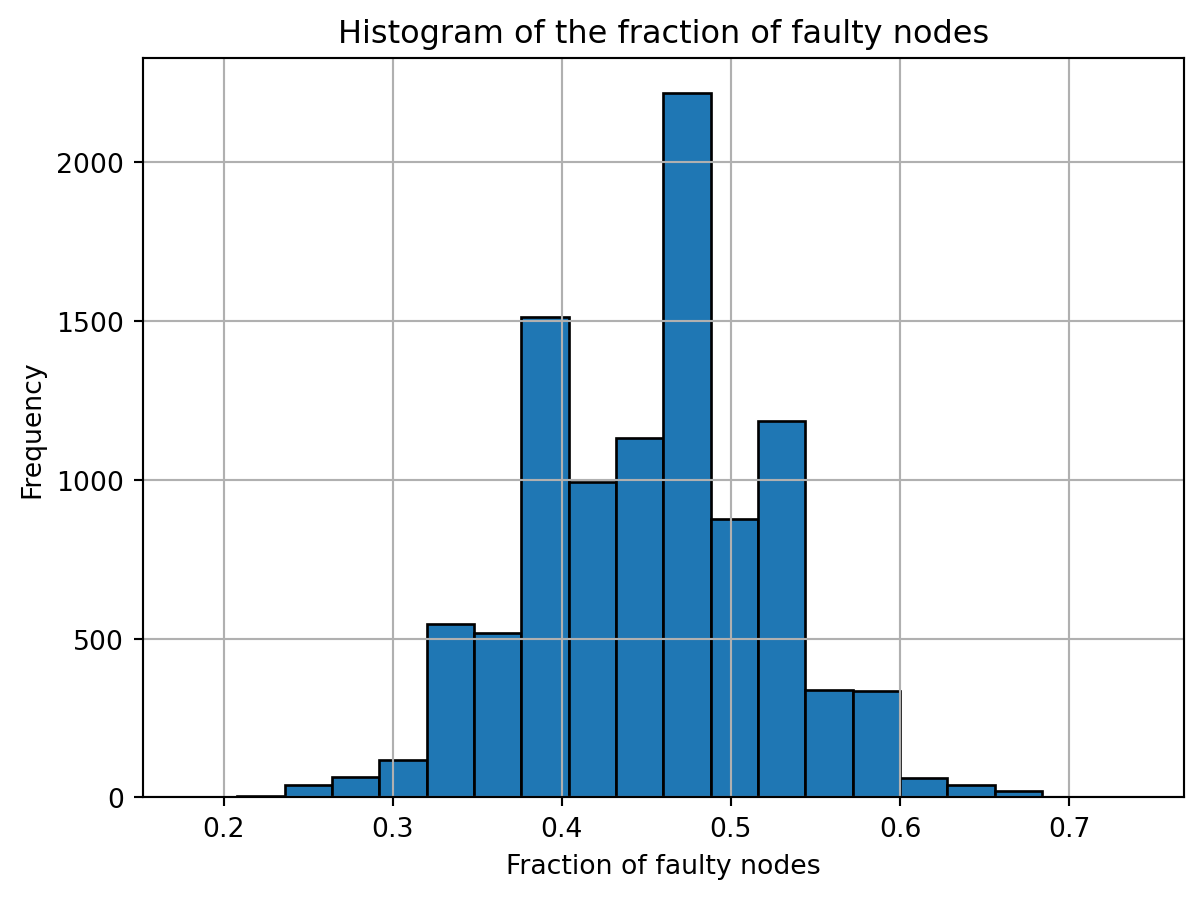
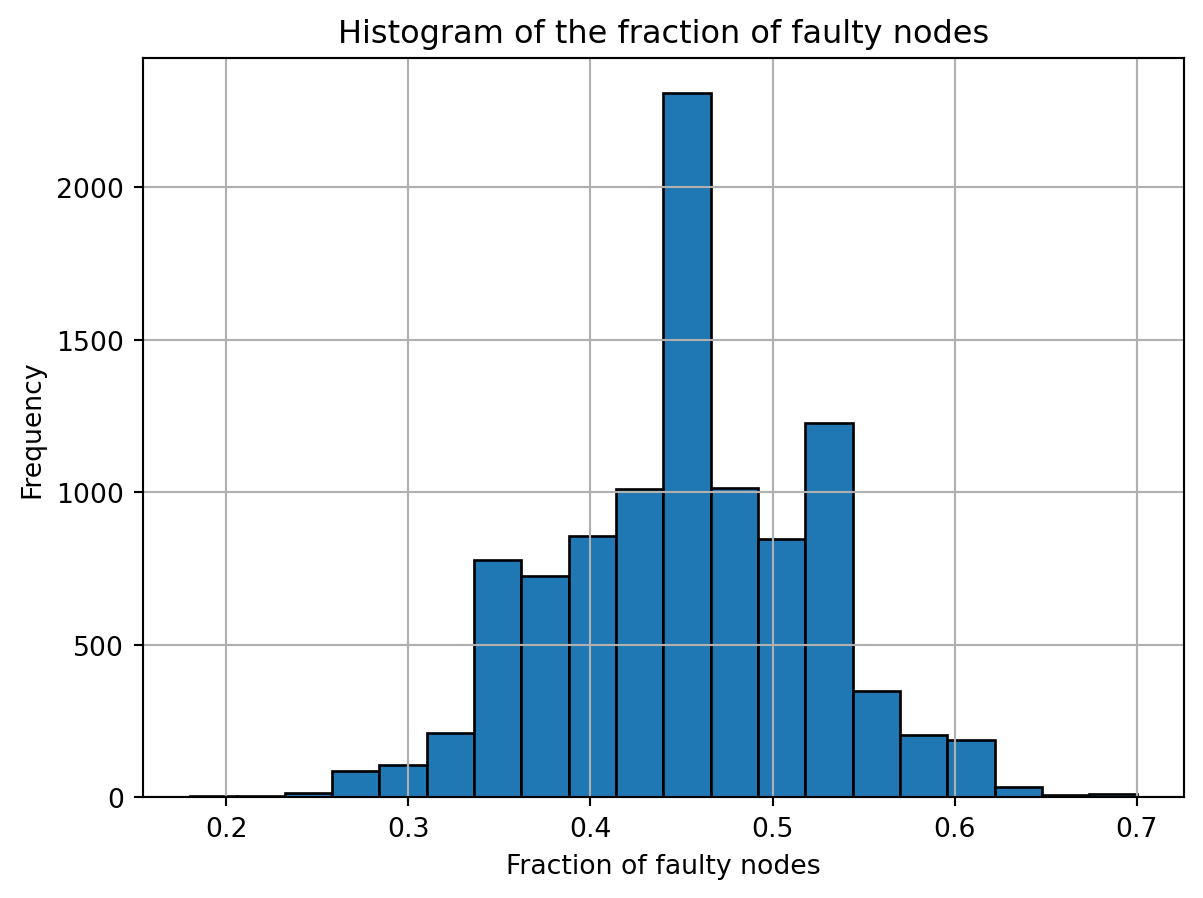
Add files via upload

diff --git a/05-LongestChain.html b/05-LongestChain.html
@@ -630,7 +630,7 @@ Case ii) is essentially a generalization of case i): suppose that the integer $K
 </ul>
 <p>Can we turn this “on expectation” statement into a “with high probability” statement? To gain some intuition, you are invited to experiment with different values of <span class="math inline">\alpha</span> and <span class="math inline">K</span>, using the Python code snippets below.</p>
 <p>To create one such leader sequence, use the following code:</p>
-<div id="3548698b" class="cell" data-execution_count="1">
+<div id="887ec18a" class="cell" data-execution_count="1">
 <details class="code-fold">
 <summary>Code</summary>
 <div class="sourceCode cell-code" id="cb2"><pre class="sourceCode python code-with-copy"><code class="sourceCode python"><span id="cb2-1"><a href="#cb2-1" aria-hidden="true" tabindex="-1"></a><span class="im">import</span> numpy <span class="im">as</span> np</span>
@@ -652,7 +652,7 @@ Case ii) is essentially a generalization of case i): suppose that the integer $K
 <span id="cb2-17"><a href="#cb2-17" aria-hidden="true" tabindex="-1"></a>    <span class="cf">return</span> samples</span></code><button title="Copy to Clipboard" class="code-copy-button"><i class="bi"></i></button></pre></div>
 </details>
 </div>
-<div id="cd2a756a" class="cell" data-execution_count="2">
+<div id="ce3275f7" class="cell" data-execution_count="2">
 <div class="sourceCode cell-code" id="cb3"><pre class="sourceCode python code-with-copy"><code class="sourceCode python"><span id="cb3-1"><a href="#cb3-1" aria-hidden="true" tabindex="-1"></a><span class="co"># Example usage:</span></span>
 <span id="cb3-2"><a href="#cb3-2" aria-hidden="true" tabindex="-1"></a>K <span class="op">=</span> <span class="dv">10</span>      <span class="co"># number of leaders</span></span>
 <span id="cb3-3"><a href="#cb3-3" aria-hidden="true" tabindex="-1"></a>alpha <span class="op">=</span> <span class="fl">0.45</span> <span class="co"># probability of leader being faulty</span></span>
@@ -661,12 +661,12 @@ Case ii) is essentially a generalization of case i): suppose that the integer $K
 <span id="cb3-6"><a href="#cb3-6" aria-hidden="true" tabindex="-1"></a></span>
 <span id="cb3-7"><a href="#cb3-7" aria-hidden="true" tabindex="-1"></a><span class="bu">print</span>(<span class="st">"Fraction of faulty leaders:"</span>, np.<span class="bu">sum</span>(samples)<span class="op">/</span>K)</span></code><button title="Copy to Clipboard" class="code-copy-button"><i class="bi"></i></button></pre></div>
 <div class="cell-output cell-output-stdout">
-<pre><code>Sampled leaders: [0 0 0 1 1 1 1 0 0 1]
-Fraction of faulty leaders: 0.5</code></pre>
+<pre><code>Sampled leaders: [1 0 1 0 0 0 0 1 0 0]
+Fraction of faulty leaders: 0.3</code></pre>
 </div>
 </div>
 <p>If you run the above code several times, you will see that the outcome varies a bit. The following code allows you to run the process <span class="math inline">T</span> times and create a histogram of the fractions of faulty nodes.</p>
-<div id="78168044" class="cell" data-execution_count="3">
+<div id="9d3bec1a" class="cell" data-execution_count="3">
 <details class="code-fold">
 <summary>Code</summary>
 <div class="sourceCode cell-code" id="cb5"><pre class="sourceCode python code-with-copy"><code class="sourceCode python"><span id="cb5-1"><a href="#cb5-1" aria-hidden="true" tabindex="-1"></a><span class="kw">def</span> sample_T_sequences(T, K, alpha):</span>
@@ -705,7 +705,7 @@ Fraction of faulty leaders: 0.5</code></pre>
   background-color: #ffffff;
 }
 </style>
-<div id="56f882ea" class="cell" data-execution_count="4">
+<div id="114cebe0" class="cell" data-execution_count="4">
 <div class="sourceCode cell-code" id="cb6"><pre class="sourceCode python code-with-copy"><code class="sourceCode python"><span id="cb6-1"><a href="#cb6-1" aria-hidden="true" tabindex="-1"></a><span class="co"># Example usage:</span></span>
 <span id="cb6-2"><a href="#cb6-2" aria-hidden="true" tabindex="-1"></a>T <span class="op">=</span> <span class="dv">10000</span>     <span class="co"># Number of leader sequences</span></span>
 <span id="cb6-3"><a href="#cb6-3" aria-hidden="true" tabindex="-1"></a>K <span class="op">=</span> <span class="dv">50</span>       <span class="co"># Number of leaders per sequence</span></span>
@@ -719,7 +719,7 @@ Fraction of faulty leaders: 0.5</code></pre>
 <span id="cb6-11"><a href="#cb6-11" aria-hidden="true" tabindex="-1"></a><span class="co"># Plot the histogram of fractions</span></span>
 <span id="cb6-12"><a href="#cb6-12" aria-hidden="true" tabindex="-1"></a>plot_histogram(fractions)</span></code><button title="Copy to Clipboard" class="code-copy-button"><i class="bi"></i></button></pre></div>
 <div class="cell-output cell-output-stdout">
-<pre><code>The fraction of leader sequences that are balanced is: 0.7141</code></pre>
+<pre><code>The fraction of leader sequences that are balanced is: 0.7127</code></pre>
 </div>
 <div class="cell-output cell-output-display">
 <div class="quarto-figure quarto-figure-center">

diff --git a/08-tullock-contest.html b/08-tullock-contest.html
@@ -365,7 +365,7 @@ g_2(x) = 2 \cdot \frac{x}{8/9 + x} - x
   background-color: #ffffff;
 }
 </style>
-<div id="a38d404c" class="cell" data-execution_count="1">
+<div id="6081b130" class="cell" data-execution_count="1">
 <details class="code-fold">
 <summary>Show code generating the plot below</summary>
 <div class="sourceCode cell-code" id="cb1"><pre class="sourceCode python code-with-copy"><code class="sourceCode python"><span id="cb1-1"><a href="#cb1-1" aria-hidden="true" tabindex="-1"></a><span class="im">import</span> numpy <span class="im">as</span> np</span>
@@ -643,7 +643,7 @@ Exercise 8.7
   background-color: #ffffff;
 }
 </style>
-<div id="ecd15bc2" class="cell" data-execution_count="2">
+<div id="12671ce0" class="cell" data-execution_count="2">
 <details class="code-fold">
 <summary>Show code for executing best response dynamics</summary>
 <div class="sourceCode cell-code" id="cb3"><pre class="sourceCode python code-with-copy"><code class="sourceCode python"><span id="cb3-1"><a href="#cb3-1" aria-hidden="true" tabindex="-1"></a><span class="im">import</span> numpy <span class="im">as</span> np</span>
@@ -784,7 +784,7 @@ Exercise 8.8
 <span id="cb5-10"><a href="#cb5-10" aria-hidden="true" tabindex="-1"></a>    - Compute best response of miner i = t (mod n)</span>
 <span id="cb5-11"><a href="#cb5-11" aria-hidden="true" tabindex="-1"></a>    - Update value mu_i with the computed best response</span></code><button title="Copy to Clipboard" class="code-copy-button"><i class="bi"></i></button></pre></div>
 <p>In general, best response dynamics are not guaranteed to converge to an (<span class="math inline">\epsilon</span>-)PNE. This means that the while-loop in the pseudo-code above is not guaranteed to terminate. Let us look at such an example with two miners and <span class="math inline">\epsilon = 0</span>.</p>
-<div id="e1418e95" class="cell" data-execution_count="3">
+<div id="234db91c" class="cell" data-execution_count="3">
 <div class="sourceCode cell-code" id="cb6"><pre class="sourceCode python code-with-copy"><code class="sourceCode python"><span id="cb6-1"><a href="#cb6-1" aria-hidden="true" tabindex="-1"></a><span class="co"># Weight vector</span></span>
 <span id="cb6-2"><a href="#cb6-2" aria-hidden="true" tabindex="-1"></a>w <span class="op">=</span> np.array([<span class="fl">0.1</span>, <span class="dv">1</span>])</span>
 <span id="cb6-3"><a href="#cb6-3" aria-hidden="true" tabindex="-1"></a></span>
@@ -915,7 +915,7 @@ Exercise 8.11
   background-color: #ffffff;
 }
 </style>
-<div id="a6864392" class="cell" data-execution_count="4">
+<div id="4202b96d" class="cell" data-execution_count="4">
 <details class="code-fold">
 <summary>Show code for best response dynamics with potential function values</summary>
 <div class="sourceCode cell-code" id="cb8"><pre class="sourceCode python code-with-copy"><code class="sourceCode python"><span id="cb8-1"><a href="#cb8-1" aria-hidden="true" tabindex="-1"></a><span class="im">import</span> numpy <span class="im">as</span> np</span>
@@ -1149,7 +1149,7 @@ Exercise 8.16
   background-color: #ffffff;
 }
 </style>
-<div id="fa96334d" class="cell" data-execution_count="5">
+<div id="9e3b9e4d" class="cell" data-execution_count="5">
 <details class="code-fold">
 <summary>Show code for solving maximization problem</summary>
 <div class="sourceCode cell-code" id="cb10"><pre class="sourceCode python code-with-copy"><code class="sourceCode python"><span id="cb10-1"><a href="#cb10-1" aria-hidden="true" tabindex="-1"></a><span class="im">import</span> numpy <span class="im">as</span> np</span>

diff --git a/06-ProofofWork.html b/06-ProofofWork.html
@@ -328,14 +328,14 @@ window.Quarto = {
 <h2 data-number="6.3" class="anchored" data-anchor-id="sha-256"><span class="header-section-number">6.3</span> SHA-256</h2>
 <p>Here we give a brief illustration of how hashing works. We will use as example the SHA-256 hash function. SHA stands for Secure Hash Algorithm. The number 256 refers to the number of bits of the output.</p>
 <p>We will use the python <code>hashlib</code> module, which we first need to import.</p>
-<div id="8141fcb3" class="cell" data-execution_count="1">
+<div id="0d0aeed5" class="cell" data-execution_count="1">
 <details class="code-fold">
 <summary>Code</summary>
 <div class="sourceCode cell-code" id="cb1"><pre class="sourceCode python code-with-copy"><code class="sourceCode python"><span id="cb1-1"><a href="#cb1-1" aria-hidden="true" tabindex="-1"></a><span class="im">import</span> hashlib</span></code><button title="Copy to Clipboard" class="code-copy-button"><i class="bi"></i></button></pre></div>
 </details>
 </div>
 <p>Here is an example of how to use SHA256 to hash a short message. The input message will be ``Decentralized finance is cool!’’ and the output is a bitstring of length 256.</p>
-<div id="729aec5c" class="cell" data-execution_count="2">
+<div id="28128466" class="cell" data-execution_count="2">
 <div class="sourceCode cell-code" id="cb2"><pre class="sourceCode python code-with-copy"><code class="sourceCode python"><span id="cb2-1"><a href="#cb2-1" aria-hidden="true" tabindex="-1"></a><span class="co"># The message to hash</span></span>
 <span id="cb2-2"><a href="#cb2-2" aria-hidden="true" tabindex="-1"></a>message <span class="op">=</span> <span class="st">"Decentralized finance is cool!"</span></span>
 <span id="cb2-3"><a href="#cb2-3" aria-hidden="true" tabindex="-1"></a></span>
@@ -355,7 +355,7 @@ Length of the bitstring: 256</code></pre>
 </div>
 </div>
 <p>Let us now investigate the key property of hash functions: they look like a random function. In particular, this implies that it is hard to predict the output of the function. To illustrate this, let us hash a second message that is very similar to the first: ``Decentralized finance is cool!!!’’</p>
-<div id="cfc37363" class="cell" data-execution_count="3">
+<div id="0dfee51e" class="cell" data-execution_count="3">
 <details class="code-fold">
 <summary>Code</summary>
 <div class="sourceCode cell-code" id="cb4"><pre class="sourceCode python code-with-copy"><code class="sourceCode python"><span id="cb4-1"><a href="#cb4-1" aria-hidden="true" tabindex="-1"></a><span class="co">### Second message </span></span>
@@ -378,7 +378,7 @@ Length of the bitstring: 256</code></pre>
 </div>
 </div>
 <p>If you compare the two strings, you will notice some differences right away. How different are the two strings? If the hash function assigns a random output to every input, then you would expect the two bitstrings to differ in roughly half their entries. Let us use python to count the number of different entries in the two strings.</p>
-<div id="1a4660a0" class="cell" data-execution_count="4">
+<div id="63c3fd96" class="cell" data-execution_count="4">
 <details class="code-fold">
 <summary>Code</summary>
 <div class="sourceCode cell-code" id="cb6"><pre class="sourceCode python code-with-copy"><code class="sourceCode python"><span id="cb6-1"><a href="#cb6-1" aria-hidden="true" tabindex="-1"></a><span class="kw">def</span> count_differences(bitstring1, bitstring2):</span>

diff --git a/09-selfish-mining.html b/09-selfish-mining.html
@@ -488,7 +488,7 @@ Exercise 9.1
 </div>
 <div class="callout-body-container callout-body">
 <p>Let <span class="math inline">\gamma \in (0,1)</span> and suppose that when the pool announces its secret block <span class="math inline">F_{p,1}</span> in Case 2b, a fraction <span class="math inline">\gamma</span> of the honest miners starts mining to extend <span class="math inline">F_{p,1}</span> and a fraction <span class="math inline">(1-\gamma)</span> of the honest miners starts mining to extend <span class="math inline">F_{h,1}</span>. Show that the expected contribution of Case 2b-II to the total expected reward for the pool is <span class="math display">
-2\alpha^2(1-\alpha) + \alpha(1-\alpha) \cdot \gamma,
+2\alpha^2(1-\alpha) + \alpha(1-\alpha)^2 \cdot \gamma,
 </span> by redoing the analysis of Cases 2b-I and 2b-II (only the latter case yields a nonzero pool reward, but analyse both cases for completeness). <em>Note that if an honest miner ends up extending <span class="math inline">F_{p,1}</span> with a block <span class="math inline">F_{h,2}</span>, then the pool gets no reward for this latter block, but it does get the reward for the block <span class="math inline">F_{p,1}</span>, as the branch containing <span class="math inline">F_{p,1}</span> and <span class="math inline">F_{h,2}</span> is now part of the new longest chain.</em></p>
 </div>
 </div>
